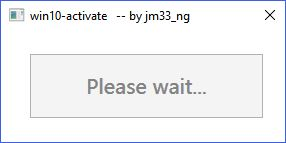
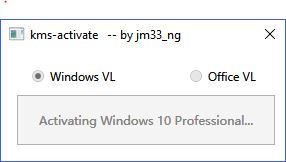
update README

diff --git a/README.md b/README.md
@@ -1,5 +1,21 @@
-# win10-activate
-Windows 10专业版一键激活工具，基于kms.jm33.me的KMS服务器
+# kms-activate
+Microsoft Windows/Office 一键激活工具，基于kms.jm33.me的KMS服务器
+
+supported versions
+
+- Windows 10 Professional
+- Windows 10 Enterprise
+- Windows 8.1 Professional
+- Windows 8.1 Enterprise
+- Windows 7 Professional
+- Windows 7 Enterprise
+- Windows Server 2016 Standard
+- Windows Server 2016 Datacenter
+- Windows Server 2012 R2 Server Standard
+- Windows Server 2012 R2 Datacenter
+- Windows Server 2008 R2 Standard
+- Windows Server 2008 R2 Enterprise
+- Office 2010, 2013, 2016 Professional Plus
 
 ![](./img/win-activate.jpg)
 
